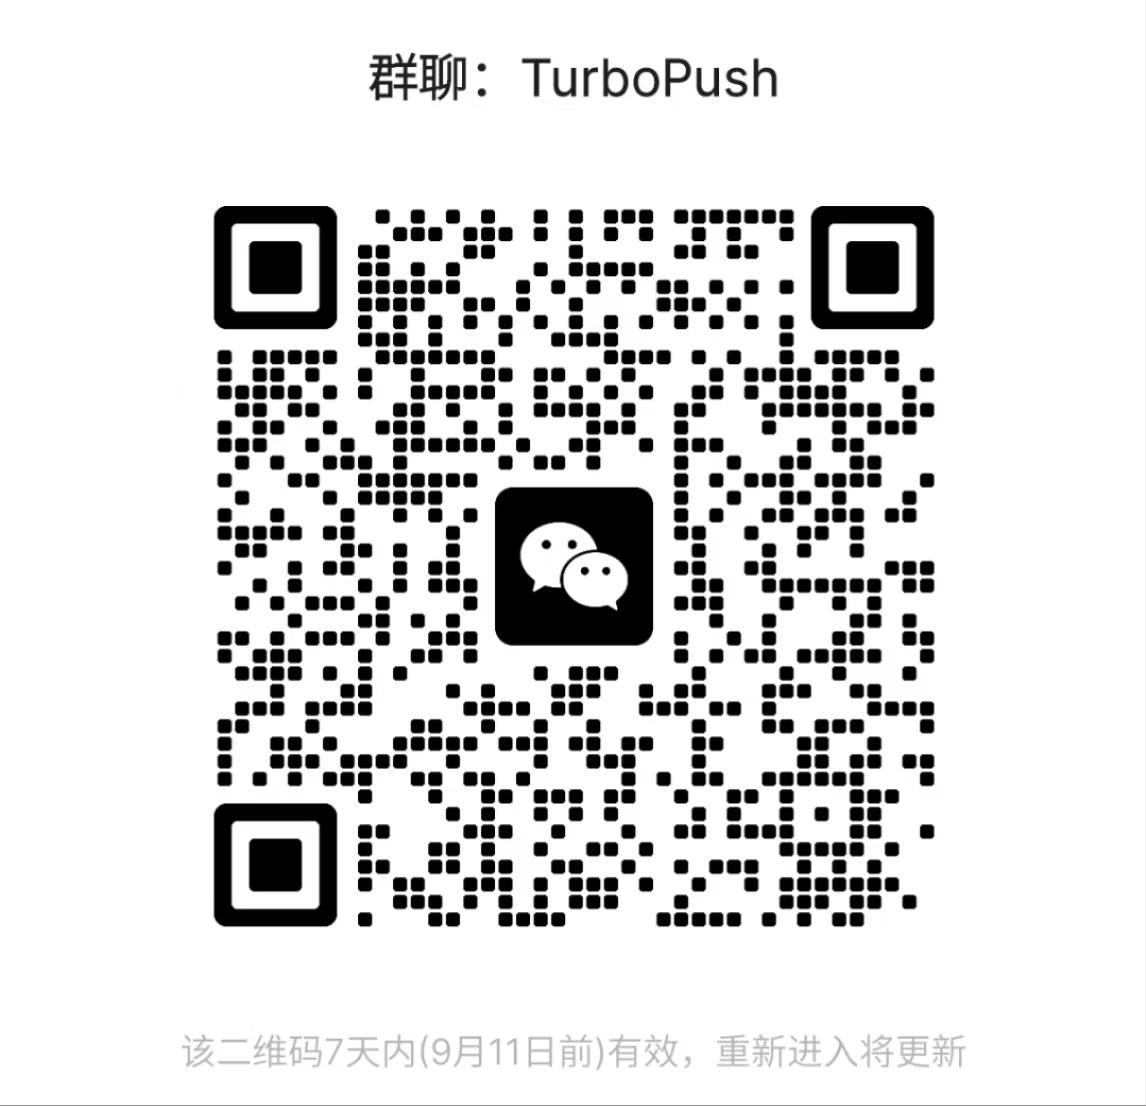
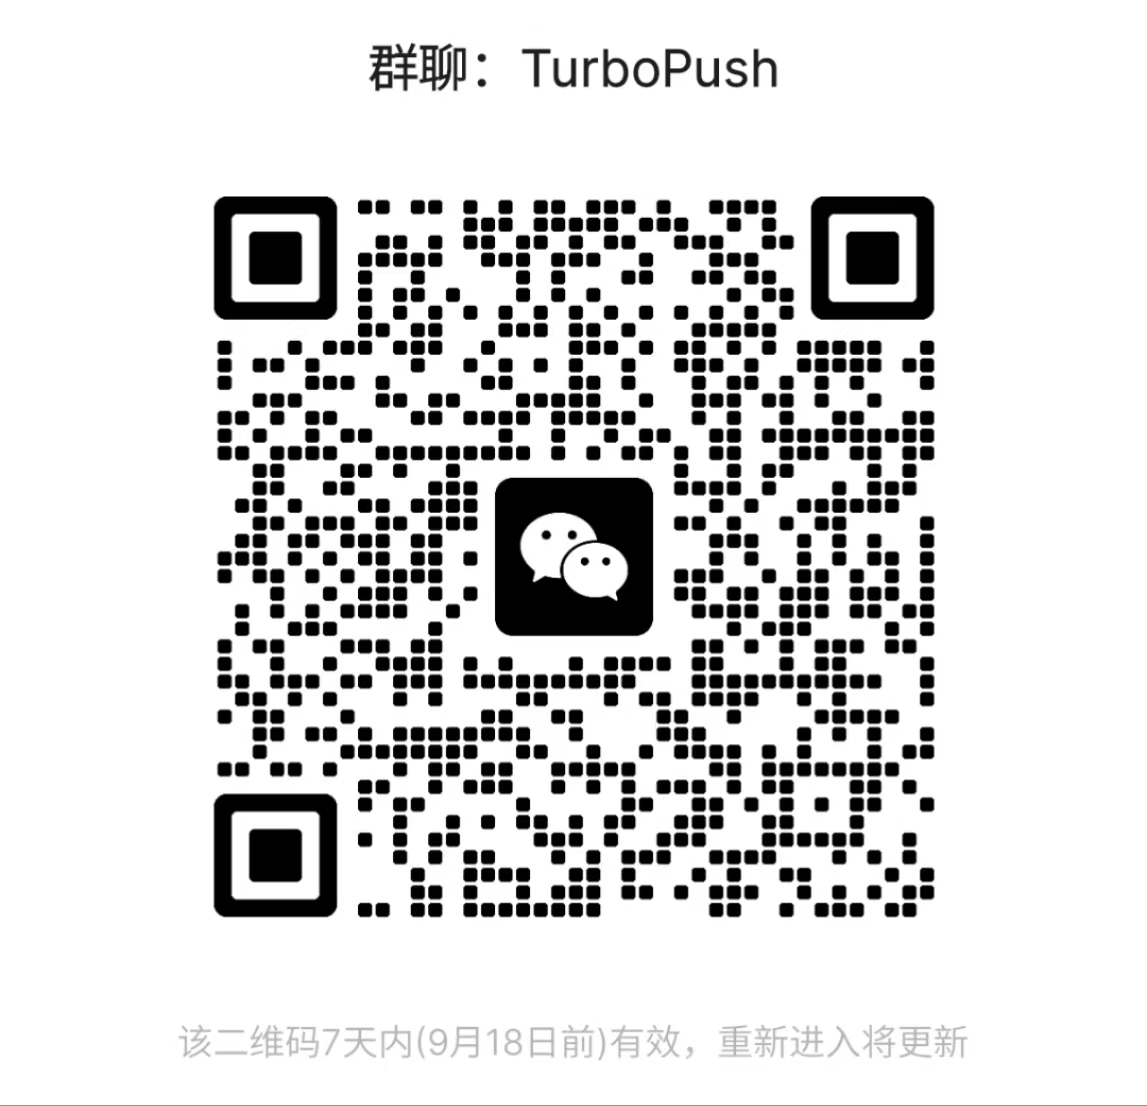
添加隐私政策/服务条款 更新WX群图片

diff --git a/public/privacy.html b/public/privacy.html
@@ -1,0 +1,68 @@
+<!DOCTYPE html>
+<html lang="zh-CN">
+<head>
+  <meta charset="UTF-8">
+  <title>隐私政策 / Privacy Policy</title>
+  <style>
+    body { font-family: Arial, sans-serif; line-height: 1.6; margin: 20px; }
+    h1, h2 { color: #333; }
+    hr { margin: 40px 0; }
+  </style>
+</head>
+<body>
+  <h1>隐私政策 / Privacy Policy</h1>
+
+  <p>感谢您使用本应用。本隐私政策说明我们如何收集、使用和保护您的个人信息，尤其是在通过 YouTube API 上传视频和使用 Google 帐号授权时。  
+     <br>
+     Thank you for using our application. This Privacy Policy explains how we collect, use, and protect your personal information, especially when uploading videos via the YouTube API and using Google account authorization.
+  </p>
+
+  <h2>1. 我们收集的信息 / Information We Collect</h2>
+  <ul>
+    <li>Google 账户信息：仅在您授权本应用访问您的 YouTube 账户时获取，包括频道信息、视频上传权限等。  
+        <br>Google account information: Obtained only when you authorize our application to access your YouTube account, including channel details and video upload permissions.
+    </li>
+    <li>视频信息：视频标题、描述、标签、分类和上传记录。  
+        <br>Video information: Video title, description, tags, category, and upload records.
+    </li>
+    <li>应用使用数据：如 API 请求记录，用于调试和改进服务。  
+        <br>Application usage data: API request logs used for debugging and service improvement.
+    </li>
+  </ul>
+
+  <h2>2. 信息的使用方式 / How We Use Your Information</h2>
+  <ul>
+    <li>上传视频至您的 YouTube 频道。<br>Upload videos to your YouTube channel.</li>
+    <li>管理视频的隐私状态、定时发布和封面设置。<br>Manage video privacy status, scheduled publishing, and thumbnails.</li>
+    <li>提供应用功能和用户支持。<br>Provide application features and user support.</li>
+  </ul>
+
+  <h2>3. 信息共享与披露 / Information Sharing and Disclosure</h2>
+  <p>我们不会将您的个人信息出售或出租给第三方。仅在以下情况下可能共享：<br>
+     We will not sell or rent your personal information to third parties. Information may only be shared in the following cases:
+  </p>
+  <ul>
+    <li>遵守法律法规或法院、政府部门的要求。<br>To comply with laws, regulations, or requests from courts or government authorities.</li>
+    <li>与合作服务商进行服务执行，但仅限必要数据。<br>With service partners for executing services, limited to necessary data only.</li>
+  </ul>
+
+  <h2>4. 信息存储与安全 / Data Storage and Security</h2>
+  <ul>
+    <li>您的信息存储在安全的服务器上，并采取合理的技术和管理措施保护数据安全。<br>Your information is stored on secure servers, with reasonable technical and administrative safeguards to protect it.</li>
+    <li>我们使用 OAuth 2.0 token 进行授权，access token 会在程序运行时刷新，refresh token 安全存储，不会泄露给第三方。<br>We use OAuth 2.0 tokens for authorization. Access tokens are refreshed during program execution, and refresh tokens are securely stored and not shared with third parties.</li>
+  </ul>
+
+  <h2>5. 用户权利 / Your Rights</h2>
+  <ul>
+    <li>您可以随时撤销对本应用的 YouTube 访问授权。<br>You can revoke access to your YouTube account by our application at any time.</li>
+    <li>您可以请求我们删除存储的个人信息和上传记录。<br>You can request deletion of stored personal information and upload records.</li>
+  </ul>
+
+  <h2>6. 联系方式 / Contact Information</h2>
+  <p>如对隐私政策有疑问，请联系：<a href="mailto:kube.call@gmail.com">kube.call@gmail.com</a>  
+     <br>If you have any questions regarding this Privacy Policy, please contact us at: <a href="mailto:kube.call@gmail.com">kube.call@gmail.com</a>
+  </p>
+
+  <p>本隐私政策自 <strong>2025-09-11</strong> 起生效。<br>This Privacy Policy is effective as of <strong>September 11, 2025</strong>.</p>
+</body>
+</html>

diff --git a/public/terms.html b/public/terms.html
@@ -1,0 +1,67 @@
+<!DOCTYPE html>
+<html lang="zh-CN">
+<head>
+  <meta charset="UTF-8">
+  <title>服务条款 / Terms of Service</title>
+  <style>
+    body { font-family: Arial, sans-serif; line-height: 1.6; margin: 20px; }
+    h1, h2 { color: #333; }
+    hr { margin: 40px 0; }
+  </style>
+</head>
+<body>
+  <h1>服务条款 / Terms of Service</h1>
+
+  <p>
+    欢迎使用本应用。本服务条款说明您在使用本应用及其服务时的权利和义务。
+    <br>
+    Welcome to use our application. These Terms of Service explain your rights and obligations when using this application and its services.
+  </p>
+
+  <h2>1. 使用许可 / License to Use</h2>
+  <p>
+    您同意按照本条款合法使用本应用及其提供的服务。
+    <br>
+    You agree to use this application and its services legally in accordance with these terms.
+  </p>
+
+  <h2>2. 用户行为规范 / User Conduct</h2>
+  <p>
+    您不得上传违法内容、侵犯他人版权或违反任何适用法律的行为。
+    <br>
+    You shall not upload illegal content, infringe on copyrights, or violate any applicable laws.
+  </p>
+
+  <h2>3. 责任限制 / Limitation of Liability</h2>
+  <p>
+    对于因使用本应用而产生的任何直接或间接损失，我们不承担责任。
+    <br>
+    We are not liable for any direct or indirect damages resulting from the use of this application.
+  </p>
+
+  <h2>4. 终止服务 / Termination</h2>
+  <p>
+    若您违反本条款，我们有权暂停或终止您的账户和服务。
+    <br>
+    We reserve the right to suspend or terminate your account and services if you violate these terms.
+  </p>
+
+  <h2>5. 修改条款 / Changes to Terms</h2>
+  <p>
+    我们保留修改条款的权利，并会在网站上公布最新版本。
+    <br>
+    We reserve the right to modify these terms and will post the latest version on the website.
+  </p>
+
+  <h2>6. 联系方式 / Contact</h2>
+  <p>
+    如有疑问，请联系：<a href="mailto:kube.call@gmail.com">kube.call@gmail.com</a>
+    <br>
+    For any questions, please contact: <a href="mailto:kube.call@gmail.com">kube.call@gmail.com</a>
+  </p>
+
+  <p>
+    生效日期 / Effective Date: <strong>2025-09-11</strong>
+  </p>
+</body>
+</html>

diff --git a/src/components/layout/footer.tsx b/src/components/layout/footer.tsx
@@ -103,20 +103,42 @@ function Footer({ variant = 'default', className }: FooterProps) {
             </div>
 
             {/* Copyright */}
-            <div className="pt-6 border-t border-border/50 w-full">
+            <div className="pt-6 border-t border-border/50 w-full flex items-center gap-6 flex-wrap">
+              {/* 版权 */}
               <Typography variant="muted" className="text-sm">
                 © {currentYear} TurboPush. 保留所有权利。
               </Typography>
-              <Typography variant="muted" className="text-xs mt-2">
+
+              {/* ICP备案 */}
+              <Typography
+                variant="muted"
+                className="text-xs flex items-center gap-1"
+              >
                 ICP备案号：
-                <Link
+                <a
                   href="https://beian.miit.gov.cn/"
                   target="_blank"
                   rel="noopener noreferrer"
                   className="hover:text-foreground transition-colors"
                 >
                   蜀ICP备2025159691号
-                </Link>
+                </a>
+              </Typography>
+
+              {/* 公安备案 */}
+              <Typography
+                variant="muted"
+                className="text-xs flex items-center gap-1"
+              >
+                <img src="/police.png" alt="公安备案" className="w-4 h-4" />
+                <a
+                  href="https://beian.mps.gov.cn/#/query/webSearch?code=51010702043662"
+                  target="_blank"
+                  rel="noopener noreferrer"
+                  className="hover:text-foreground transition-colors"
+                >
+                  川公网安备51010702043662号
+                </a>
               </Typography>
             </div>
           </div>
